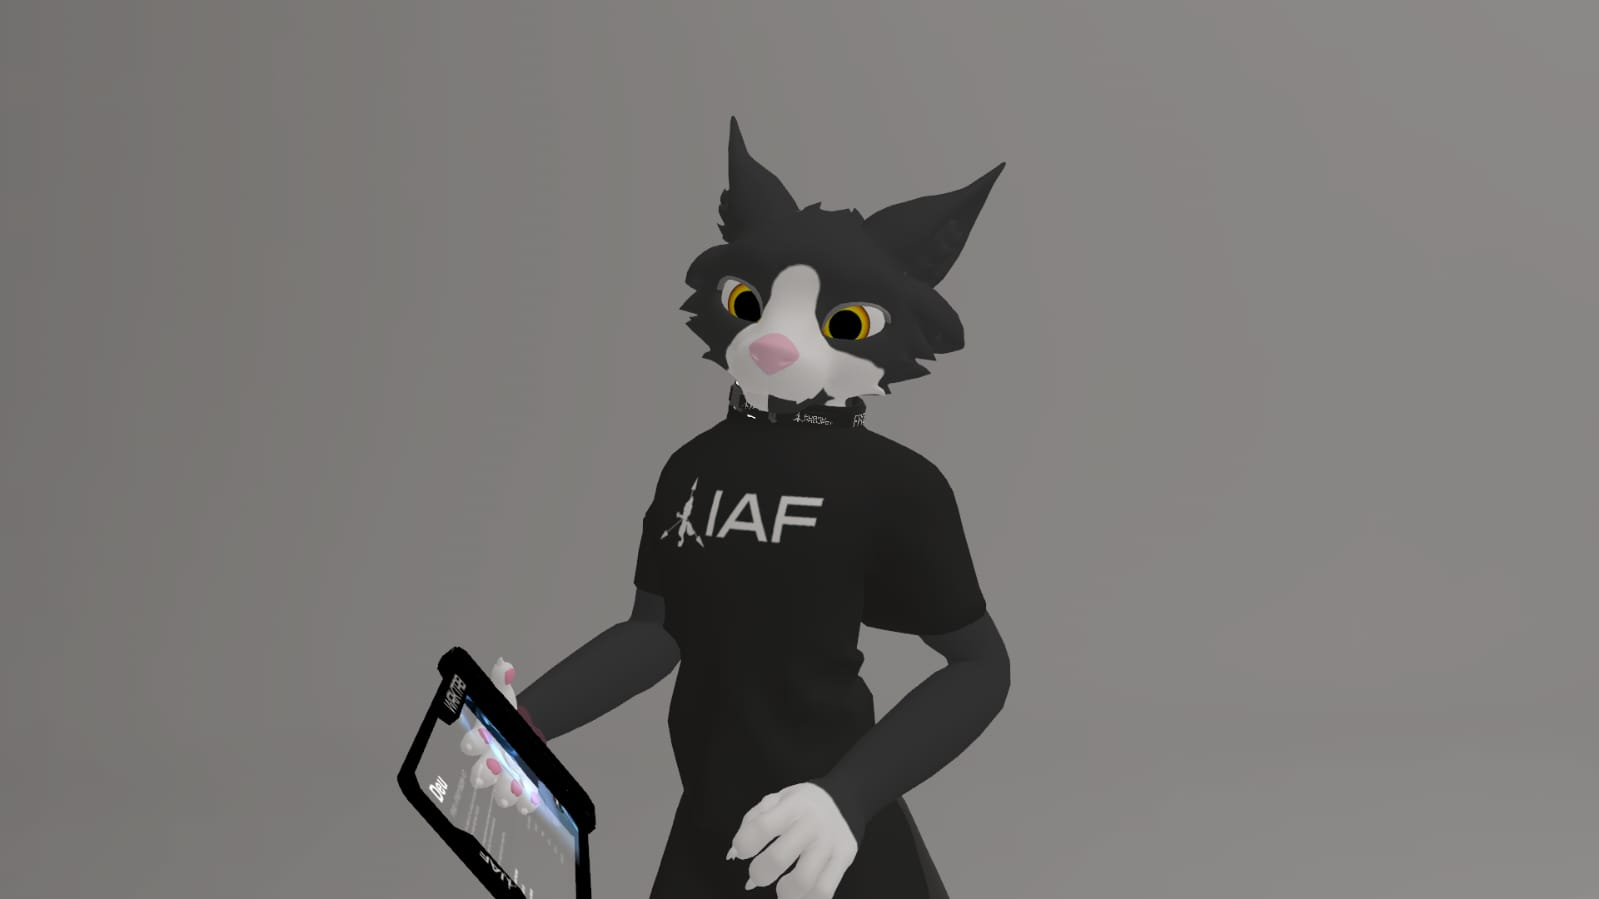
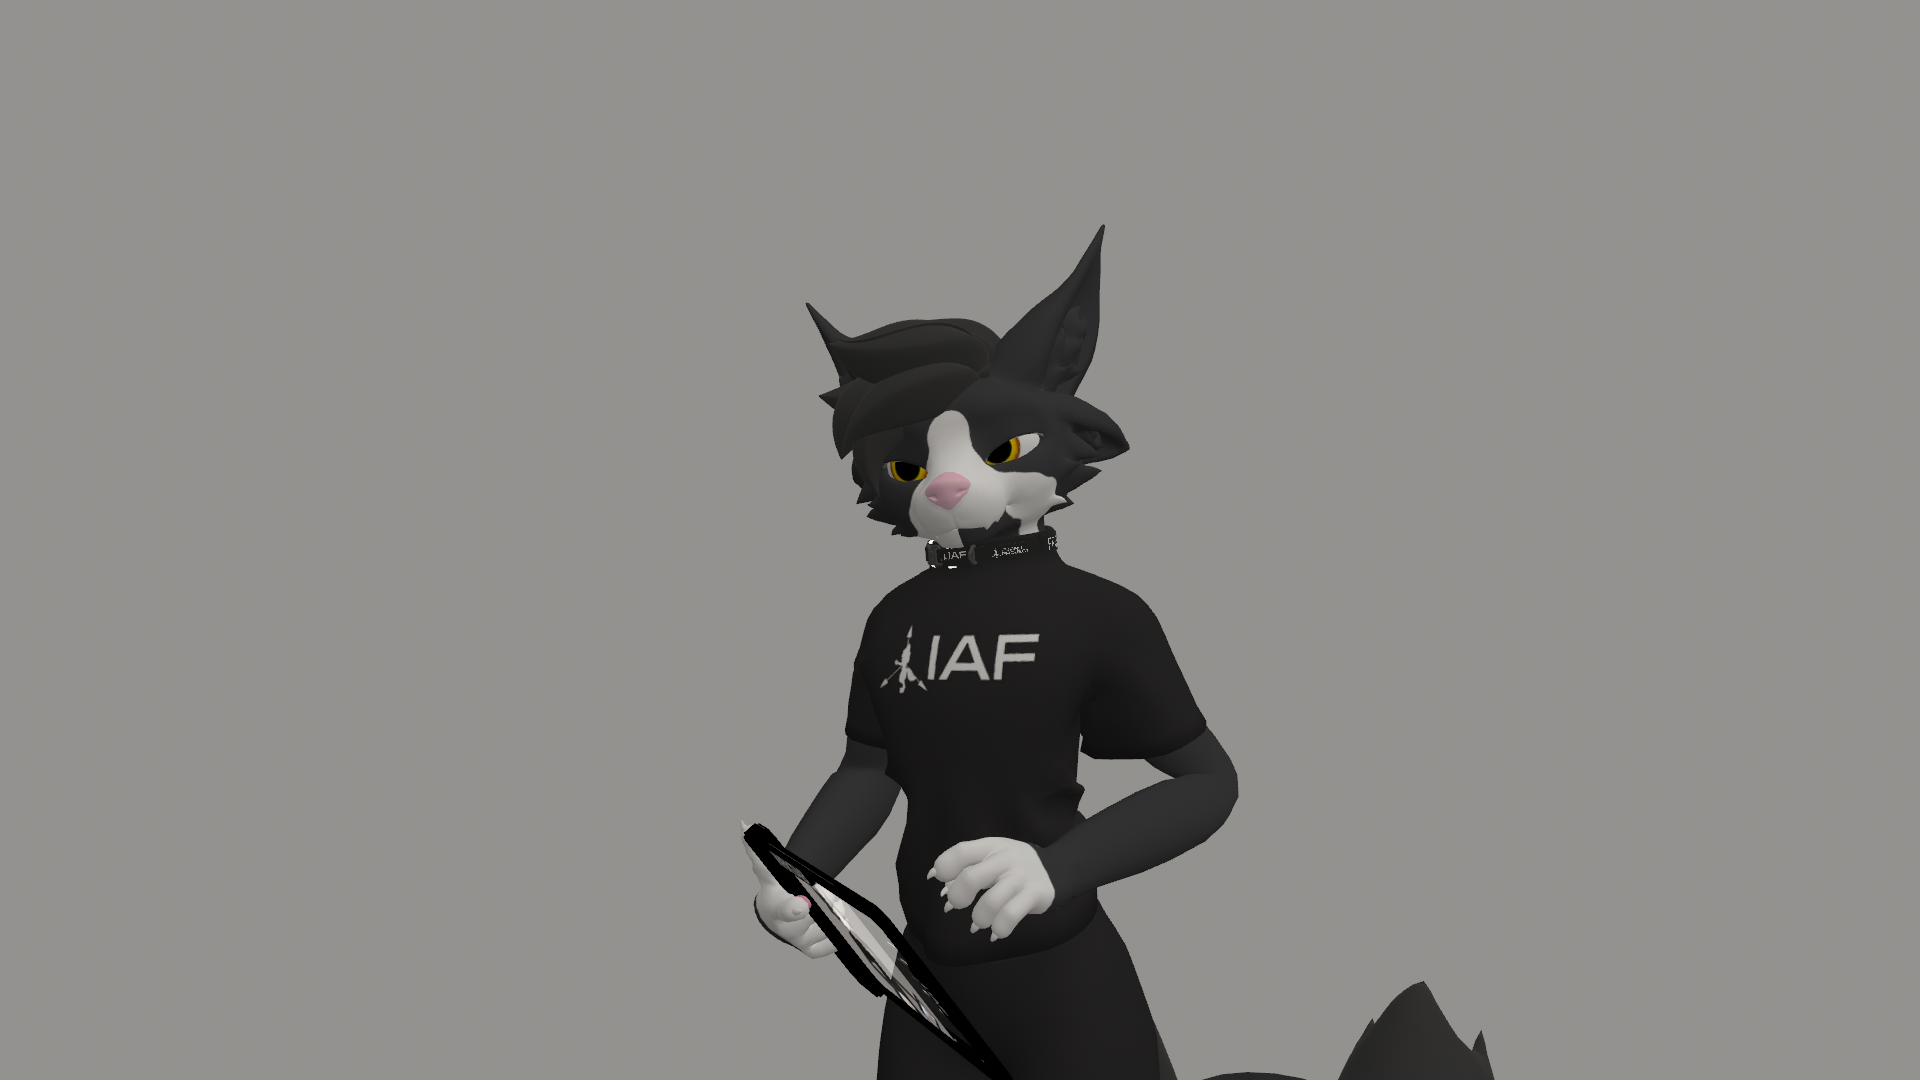
Deu

diff --git a/index.html b/index.html
@@ -185,7 +185,7 @@ body{
   object-fit:cover;
   object-position:center;
   display:block;
-  filter:grayscale(100%) brightness(.65);
+  filter:grayscale(0) brightness(.65);
 }
 
 /* =========================
@@ -281,7 +281,7 @@ body{
 
   <!-- WALLPAPER -->
   <div class="hero-left">
-    <img src="img/pic/Nami.png">
+    <img src="img/pic/Deu.png">
   </div>
 
 </section>